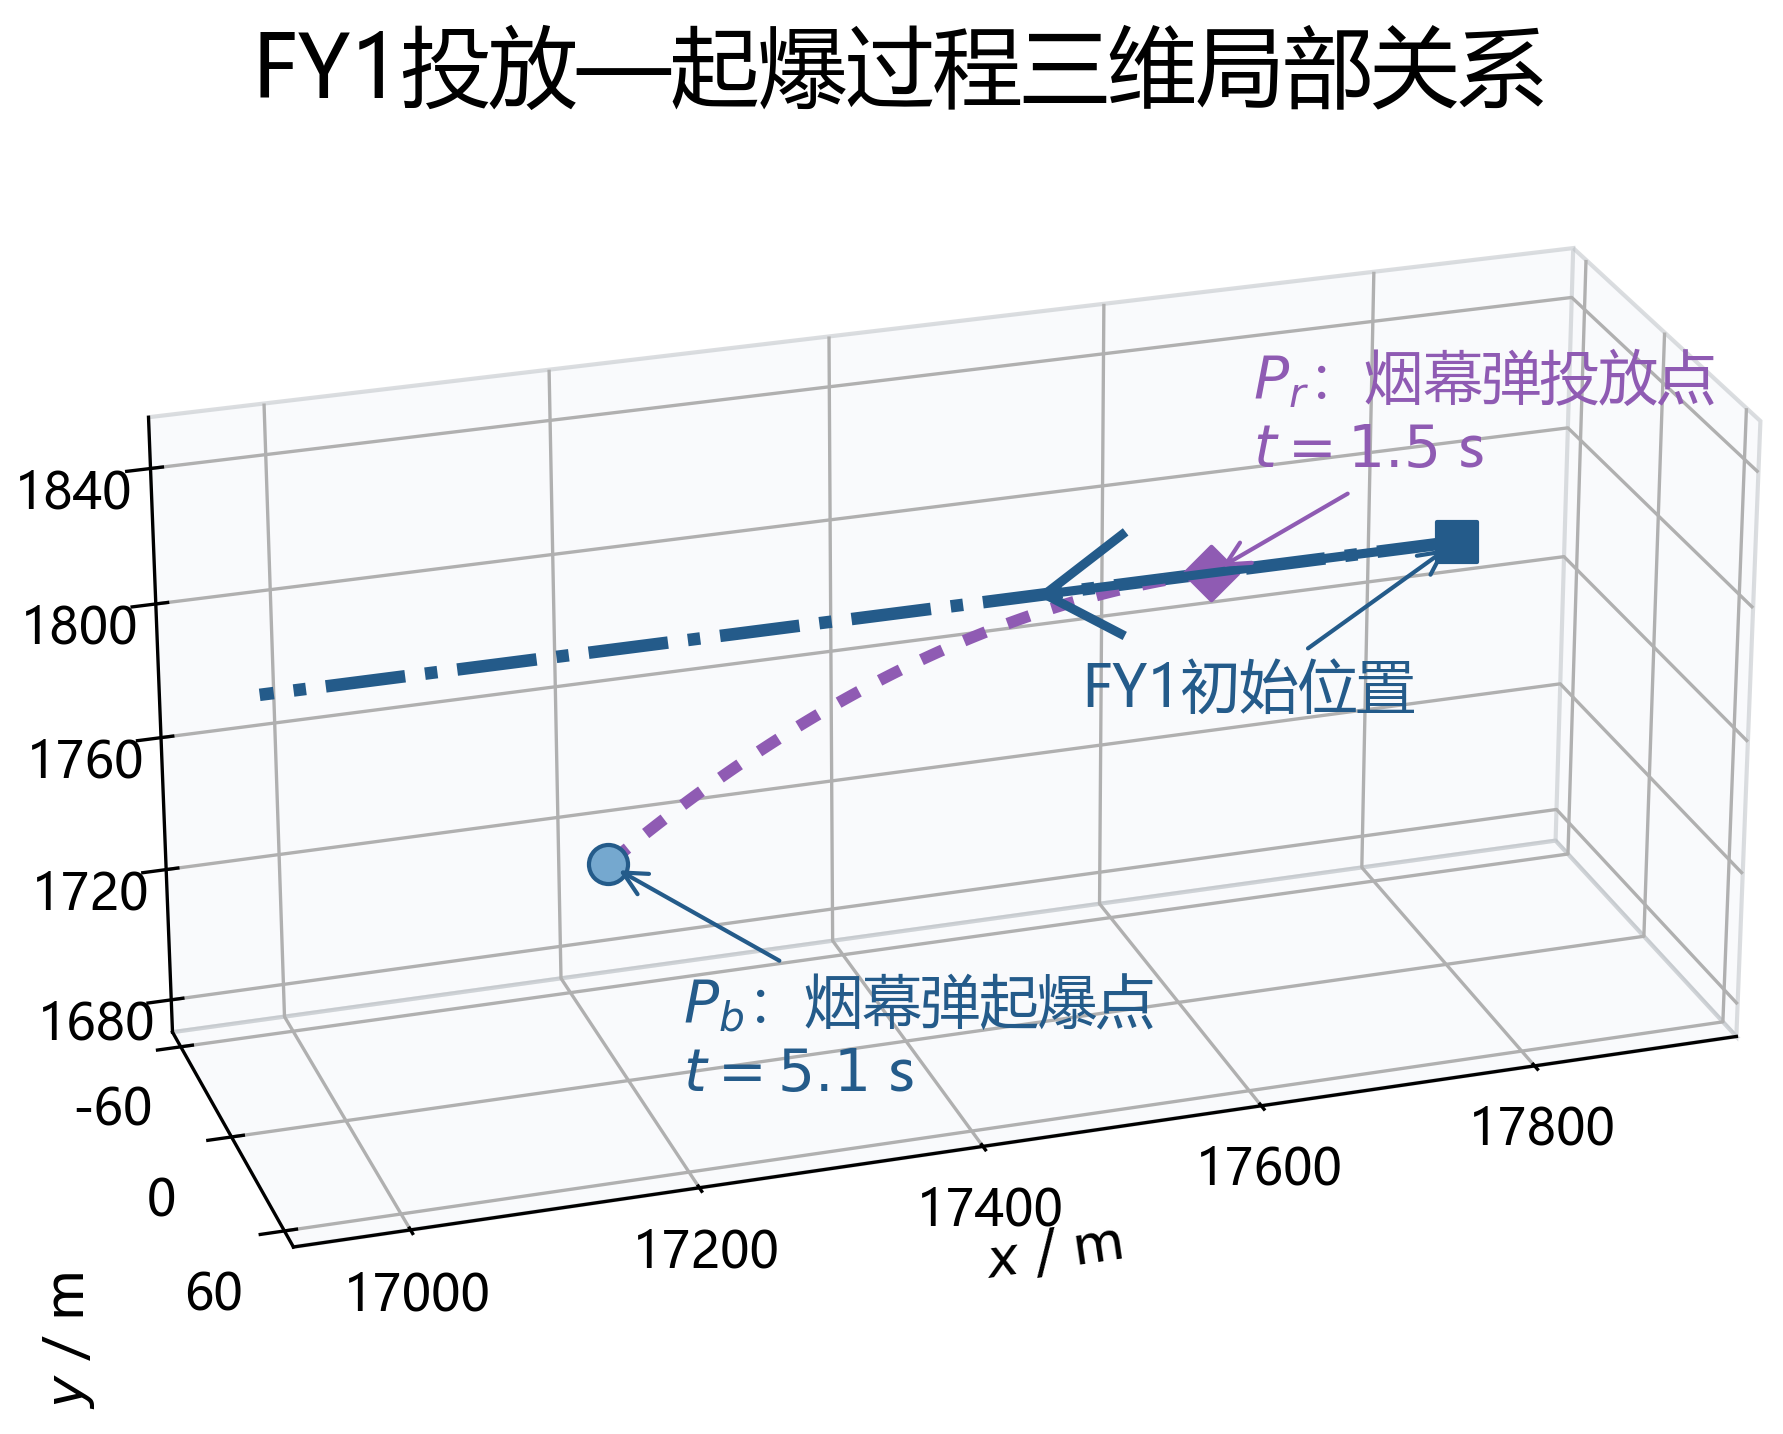
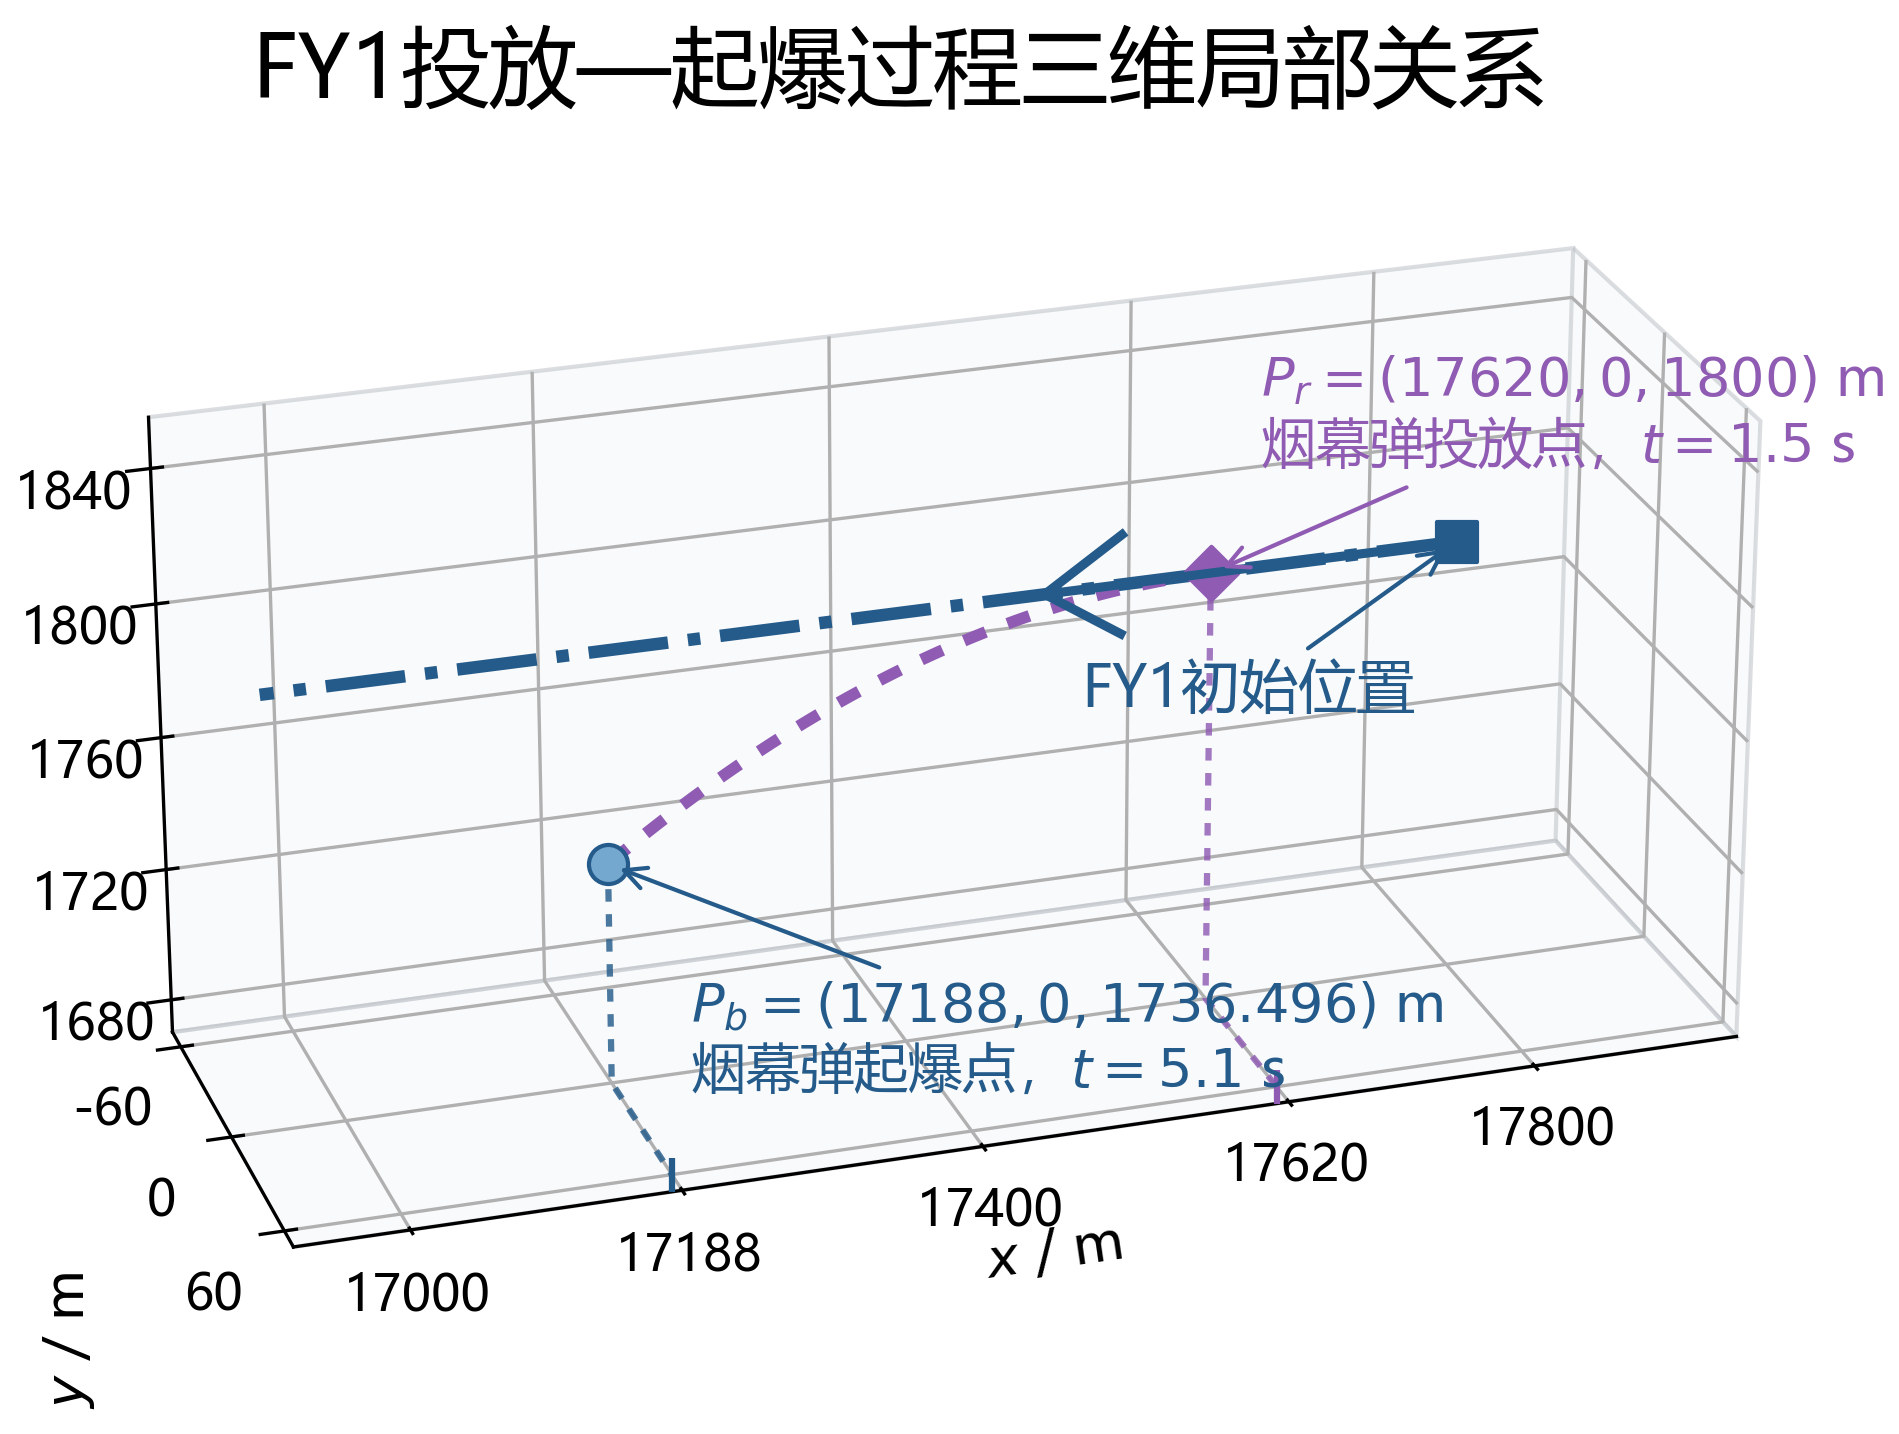
Q1可视化修正

diff --git a/Q1/q1_visualization.py b/Q1/q1_visualization.py
@@ -35,6 +35,13 @@ BURST_TIME = RELEASE_TIME + FUSE_DELAY
 BURST_POINT = RELEASE_POINT + UAV_VELOCITY * FUSE_DELAY
 BURST_POINT[2] = RELEASE_POINT[2] - 0.5 * GRAVITY * FUSE_DELAY**2
 
+EXPECTED_RELEASE_POINT = np.array([17620.0, 0.0, 1800.0])
+EXPECTED_BURST_POINT = np.array([17188.0, 0.0, 1736.496])
+if not np.allclose(RELEASE_POINT, EXPECTED_RELEASE_POINT, atol=1e-9):
+    raise ValueError(f"投放点计算错误：{RELEASE_POINT}")
+if not np.allclose(BURST_POINT, EXPECTED_BURST_POINT, atol=1e-9):
+    raise ValueError(f"起爆点计算错误：{BURST_POINT}")
+
 COLORS = {
     "missile": "#c84b31",
     "uav": "#245b8a",
@@ -562,10 +569,13 @@ def draw_global_scene(output_directory: Path) -> Path:
         linestyle="-.",
         linewidth=3.0,
     )
+    missile_arrow_start = MISSILE_INITIAL + 0.36 * (
+        FALSE_TARGET - MISSILE_INITIAL
+    )
     axis.quiver(
-        *MISSILE_INITIAL,
+        *missile_arrow_start,
         *MISSILE_DIRECTION,
-        length=3200,
+        length=2800,
         normalize=True,
         color=COLORS["missile"],
         linewidth=2.5,
@@ -628,8 +638,9 @@ def draw_global_scene(output_directory: Path) -> Path:
         fontsize=14,
     )
 
-    axis.set_xlim(20600, -600)
-    axis.set_ylim(-350, 650)
+    axis.set_xlim(20600, 0)
+    axis.set_ylim(0, 650)
+    axis.set_yticks([200, 400, 600])
     axis.set_zlim(0, 2350)
     axis.set_box_aspect((2.55, 1.0, 1.18))
     axis.view_init(elev=20, azim=72)
@@ -652,18 +663,18 @@ def draw_global_scene(output_directory: Path) -> Path:
         axis,
         "$FY_1(0)$：无人机",
         UAV_INITIAL,
-        (-8, -44),
+        (20, -42),
         COLORS["uav"],
-        horizontal_alignment="right",
+        horizontal_alignment="left",
         fontsize=14,
     )
     annotate_3d(
         axis,
         "假目标 $O$",
         FALSE_TARGET,
-        (0, 38),
+        (28, 42),
         COLORS["false"],
-        horizontal_alignment="center",
+        horizontal_alignment="left",
         fontsize=14,
     )
     annotate_3d(
@@ -804,6 +815,32 @@ def draw_release_burst_process(output_directory: Path) -> Path:
         linewidth=1.0,
         depthshade=False,
     )
+
+    # 将关键点正交投影到前侧 x 轴，消除三维透视造成的横坐标错觉。
+    z_floor = 1670.0
+    y_front = 60.0
+    for point, color in (
+        (RELEASE_POINT, COLORS["bomb"]),
+        (BURST_POINT, COLORS["uav"]),
+    ):
+        axis.plot(
+            [point[0], point[0], point[0]],
+            [point[1], point[1], y_front],
+            [point[2], z_floor, z_floor],
+            color=color,
+            linestyle=(0, (2, 2)),
+            linewidth=1.5,
+            alpha=0.82,
+        )
+        axis.scatter(
+            point[0],
+            y_front,
+            z_floor,
+            s=70,
+            marker="|",
+            color=color,
+            depthshade=False,
+        )
     axis.quiver(
         *UAV_INITIAL,
         *UAV_DIRECTION,
@@ -817,6 +854,7 @@ def draw_release_burst_process(output_directory: Path) -> Path:
     axis.set_xlim(17950, 16920)
     axis.set_ylim(-70, 70)
     axis.set_zlim(1670, 1855)
+    axis.set_xticks([17000, 17188, 17400, 17620, 17800])
     axis.set_yticks([-60, 0, 60])
     axis.set_zticks([1680, 1720, 1760, 1800, 1840])
     axis.set_box_aspect((2.35, 0.78, 1.05))
@@ -848,19 +886,19 @@ def draw_release_burst_process(output_directory: Path) -> Path:
     )
     annotate_3d(
         axis,
-        "$P_r$：烟幕弹投放点\n$t=1.5$ s",
+        "$P_r=(17620,0,1800)$ m\n烟幕弹投放点，$t=1.5$ s",
         RELEASE_POINT,
-        (10, 38),
+        (12, 38),
         COLORS["bomb"],
-        fontsize=14,
+        fontsize=13,
     )
     annotate_3d(
         axis,
-        "$P_b$：烟幕弹起爆点\n$t=5.1$ s",
+        "$P_b=(17188,0,1736.496)$ m\n烟幕弹起爆点，$t=5.1$ s",
         BURST_POINT,
-        (18, -42),
+        (20, -42),
         COLORS["uav"],
-        fontsize=14,
+        fontsize=13,
     )
 
     path = output_directory / "q1_release_burst_3d.png"
